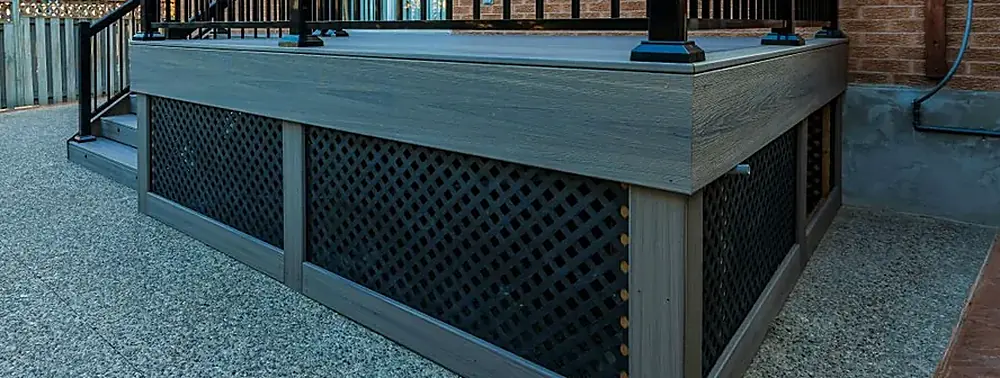
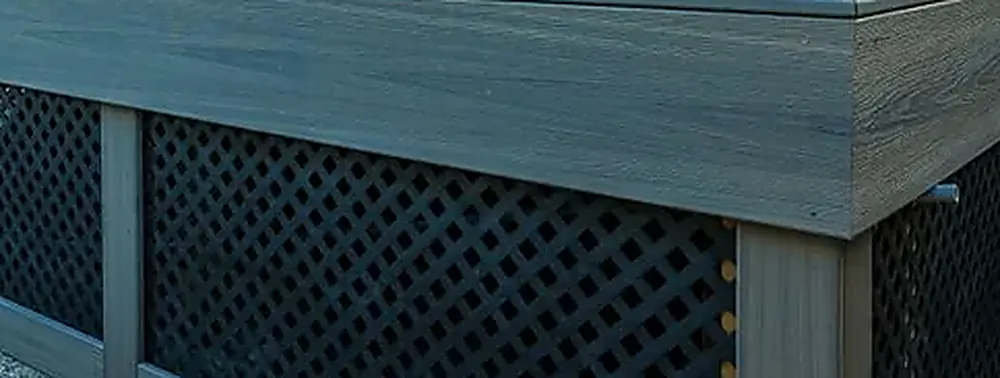
Act on the terraces design review
Four findings verified against the rendered pages and fixed.

Mixed-ratio photo strips were force-cropping landscape frames to portrait at
390px. aspect-ratio on the shot only sets its height if nothing else does, and
the base rule's align-items: stretch did, so every frame took the tallest
frame's height: the pergola's two 4:3 frames and the facade's 16:9 one all
rendered 259x345, the facade losing well over half its width. flex-start in
the mobile block hands the height back to aspect-ratio. All 22 frames on the
page now render within 0.05 of their declared ratio. The build-sequence tier
was never affected -- its frames are uniformly 4:3.

The natural-timber tile was a silvered deck, which is precisely the state the
thermowood copy names as its weathered end point, so the two cards argued with
each other. Measured over the visible crop it was neutral grey (warmth +0.8).
Re-cropped from the pond decking: warmth +32.8, luminance 154. The composite
tile was mostly lattice skirt and lost its board surface entirely once cover
trimmed it at 390; re-cropped to the deck band. The four tiles now separate by
roughly 30 luminance in both adjacent pairs, against 13.8 for the dark pair
before.

Two EN card paragraphs ran two lines where their siblings ran three, and grid
row-stretch left a 24px hole under each. LV was already even at 72px across
all six. Both languages now measure 72px on every card.

The structure block had no lede, so its grid sat 84px tighter under its heading
[…]

diff --git a/en/terraces.html b/en/terraces.html
@@ -72,7 +72,7 @@
         </div>
         <div class="zg-card__body">
           <h3>Natural timber</h3>
-          <p>Larch, oak or pine — a natural tone at a lower cost. Oiled once a season to hold its colour.</p>
+          <p>Larch, oak or pine — a natural tone at a lower cost. Oiled once a season to hold its colour, and simple to swap board by board if one ever splits.</p>
         </div>
       </div>
       <div class="zg-card" data-reveal>
@@ -97,6 +97,7 @@
   <div class="zg-topicbody__block" data-reveal-group>
     <span class="zg-section-eyebrow" data-reveal>What sits under the deck</span>
     <h2 class="zg-section-head" data-reveal>Structure and additions</h2>
+    <p class="zg-topicbody__text" data-reveal>A terrace is more than its deck. We plan this part alongside the structure rather than bolting it on afterwards.</p>
     <div class="zg-card-grid">
       <div class="zg-card" data-reveal>
         <div class="zg-card__img" style="background-image:url('../assets/card-structure.webp')">
@@ -111,7 +112,7 @@
         </div>
         <div class="zg-card__body">
           <h3>Railings, stairs, and light</h3>
-          <p>Steel or timber railings, stairs made to measure, and built-in LED lighting — we run the wiring ourselves.</p>
+          <p>Steel or timber railings, stairs made to measure, and built-in LED lighting — we run the wiring ourselves, so there is no second trade to book.</p>
         </div>
       </div>
     </div>

diff --git a/css/styles.css b/css/styles.css
@@ -2566,7 +2566,14 @@ textarea:focus-visible {
     padding-bottom: 2px;
   }
   .zg-project__strip::-webkit-scrollbar { display: none; }
-  .zg-project__strip { aspect-ratio: auto; }
+  /* aspect-ratio on the shot only decides its height if nothing else does.
+     The base rule's align-items: stretch does, so on a mixed-ratio set every
+     frame took the tallest frame's height and object-fit cropped the rest to
+     match: the pergola's two 4:3 frames and the facade's 16:9 one all rendered
+     at 259x345, the facade losing well over half its width. flex-start hands
+     the height back to aspect-ratio. Rows come out ragged-bottomed, which is
+     correct -- these are photos of different shapes, not a grid. */
+  .zg-project__strip { aspect-ratio: auto; align-items: flex-start; }
   .zg-project__shot {
     flex: 0 0 74%;
     height: auto;

diff --git a/terraces.html b/terraces.html
@@ -97,6 +97,7 @@
   <div class="zg-topicbody__block" data-reveal-group>
     <span class="zg-section-eyebrow" data-reveal>Kas paliek zem klāja</span>
     <h2 class="zg-section-head" data-reveal>Konstrukcija un papildinājumi</h2>
+    <p class="zg-topicbody__text" data-reveal>Pie terases pieder arī tas, kas nav klājs. Šo daļu plānojam kopā ar konstrukciju, nevis piebūvējam pēc tam.</p>
     <div class="zg-card-grid">
       <div class="zg-card" data-reveal>
         <div class="zg-card__img" style="background-image:url('assets/card-structure.webp')">
